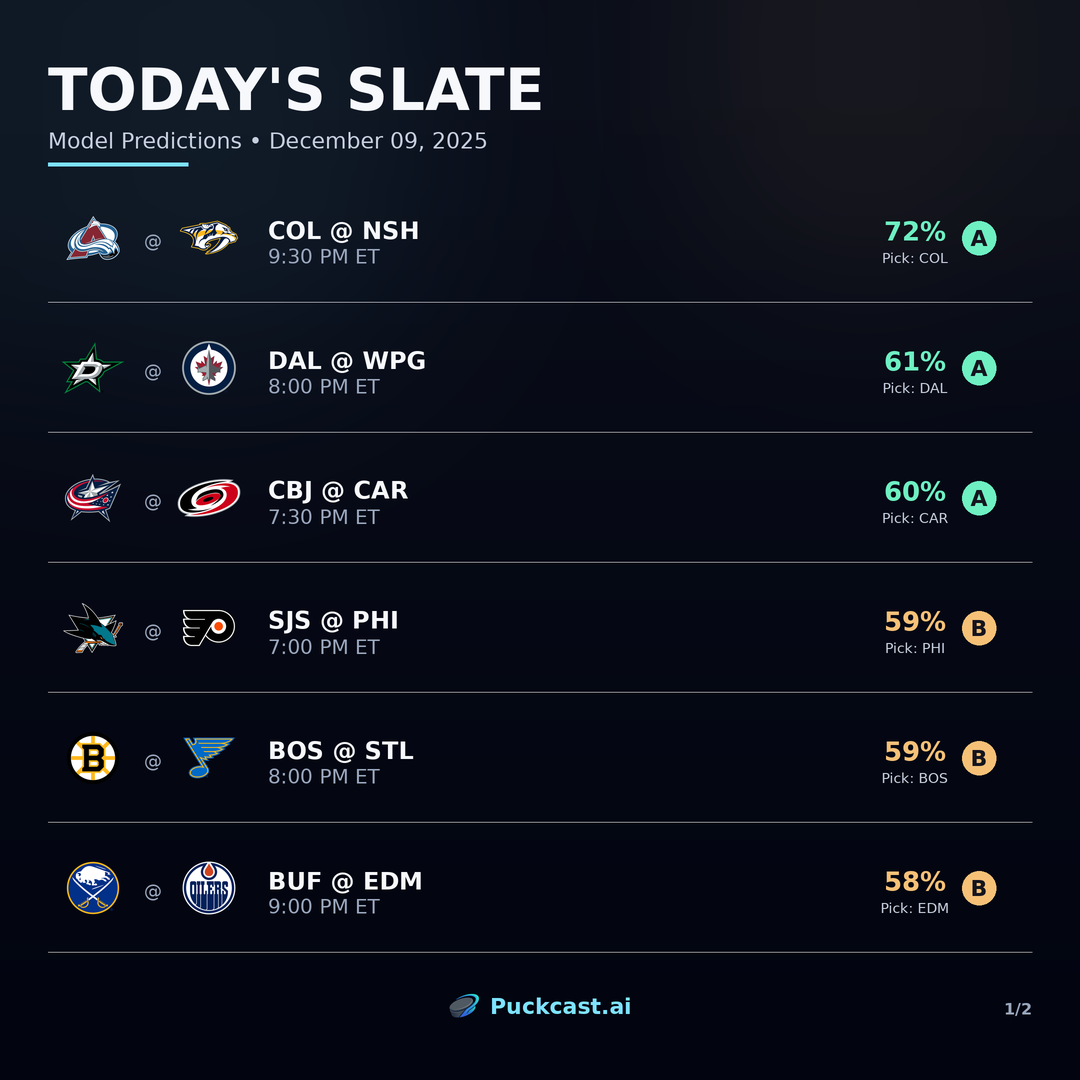
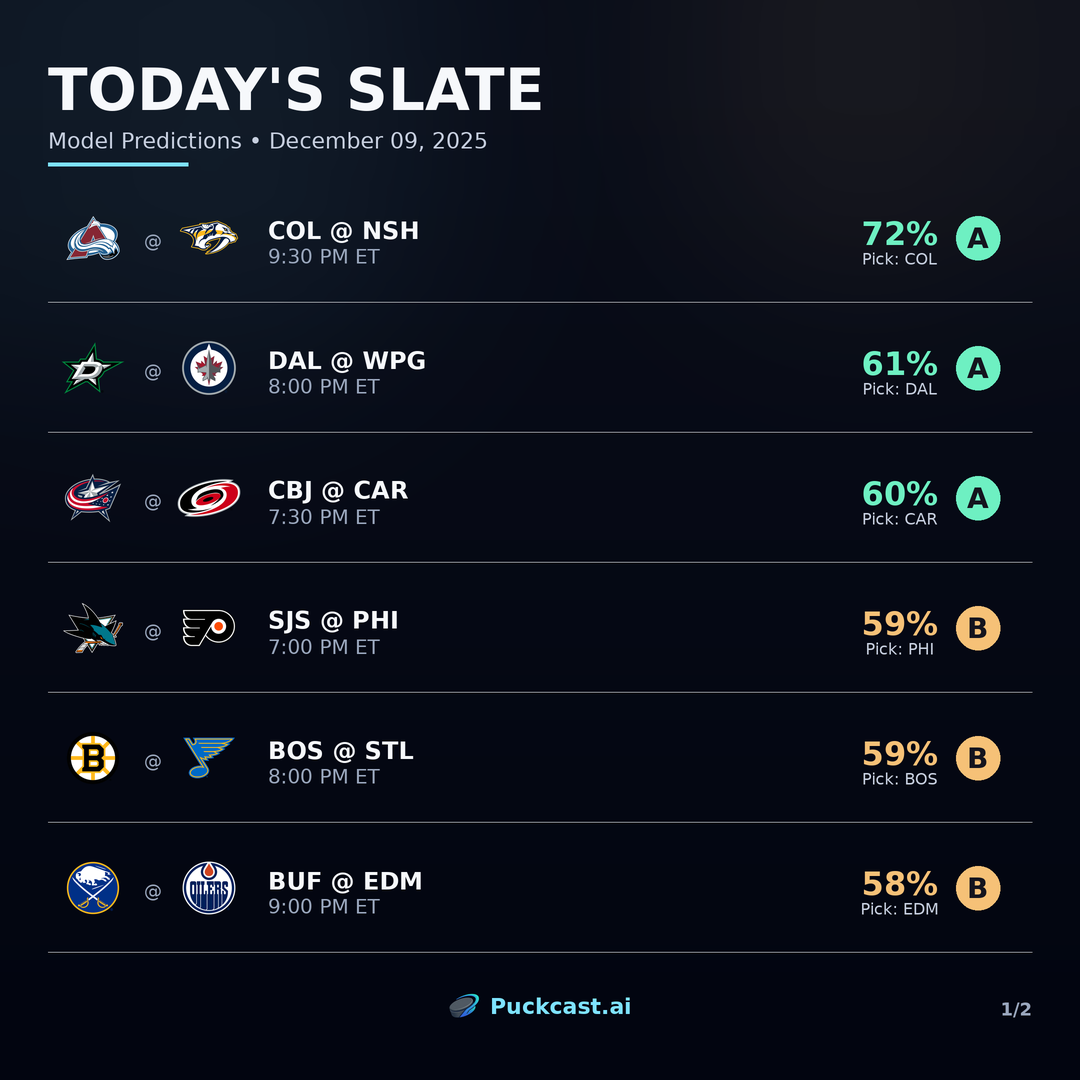
fix: balance Today's Slate pick info with team column sizing
- Increase probability font S(26)->S(32) for visual weight
- Increase pick label font S(14)->S(16) proportionally
- Increase badge size S(34)->S(44) and grade font S(22)->S(28)
- Fix slide counter alignment to match exact footer position

diff --git a/graphics/templates/todays_slate.py b/graphics/templates/todays_slate.py
@@ -111,47 +111,47 @@ def draw_game_row(
     draw.text((info_x, text_y), matchup_text, fill=hex_to_rgb(PuckcastColors.TEXT_PRIMARY), font=matchup_font)
     draw.text((info_x, text_y + matchup_h + S(6)), start_time, fill=hex_to_rgb(PuckcastColors.TEXT_TERTIARY), font=time_font)
 
-    # Right side: Pick info - pulled inward for balance
+    # Right side: Pick info - sized to balance with left team column
     grade_color = get_confidence_color_rgb(confidence)
 
-    # Grade badge position (anchor point)
-    badge_size = S(34)
-    badge_x = img.width - margin - badge_size - S(36)  # Pulled inward more for connection
+    # Grade badge position (anchor point) - larger for visual balance
+    badge_size = S(44)
+    badge_x = img.width - margin - badge_size - S(32)
     badge_y = row_center_y - badge_size // 2
 
-    # Probability text - balanced size
-    prob_font = get_font(S(26), bold=True)
+    # Probability text - increased to match left column visual weight
+    prob_font = get_font(S(32), bold=True)
     prob_text = f"{pick_prob * 100:.0f}%"
     prob_bbox = draw.textbbox((0, 0), prob_text, font=prob_font)
     prob_w = prob_bbox[2] - prob_bbox[0]
     prob_h = prob_bbox[3] - prob_bbox[1]
 
-    # Pick label
-    pick_font = get_font(S(14), bold=False)
+    # Pick label - proportionally larger
+    pick_font = get_font(S(16), bold=False)
     pick_label = f"Pick: {pick_abbrev}"
     pick_bbox = draw.textbbox((0, 0), pick_label, font=pick_font)
     pick_w = pick_bbox[2] - pick_bbox[0]
     pick_h = pick_bbox[3] - pick_bbox[1]
 
     # Position pick section to left of badge with spacing
-    pick_section_x = badge_x - prob_w - S(16)  # Extra spacing between prob and badge
+    pick_section_x = badge_x - prob_w - S(18)
 
-    # Total height of pick section with better breathing room
-    spacing = S(14)  # Increased vertical spacing for less compression
+    # Total height of pick section
+    spacing = S(10)
     total_pick_h = prob_h + spacing + pick_h
     pick_start_y = row_center_y - total_pick_h // 2
 
     # Draw probability
     draw.text((pick_section_x, pick_start_y), prob_text, fill=grade_color, font=prob_font)
 
-    # Draw pick label below with spacing
+    # Draw pick label below centered under probability
     draw.text((pick_section_x + (prob_w - pick_w) // 2, pick_start_y + prob_h + spacing), pick_label, fill=hex_to_rgb(PuckcastColors.TEXT_SECONDARY), font=pick_font)
 
     # Grade badge
     draw.ellipse([badge_x, badge_y, badge_x + badge_size, badge_y + badge_size], fill=grade_color)
 
-    # Grade letter - sized to match probability text visually
-    grade_font = get_font(S(22), bold=True)
+    # Grade letter - sized to match probability/pick column height
+    grade_font = get_font(S(28), bold=True)
     grade_bbox = draw.textbbox((0, 0), confidence, font=grade_font)
     grade_w = grade_bbox[2] - grade_bbox[0]
     grade_h = grade_bbox[3] - grade_bbox[1]
@@ -195,14 +195,16 @@ def generate_slate_image(games: List[Dict], date_str: str, page: int = 1, total_
 
     # Slide counter for multi-page slates (bottom right, aligned with footer)
     if total_pages > 1:
-        counter_font = get_font(S(16), bold=True)
+        counter_font = get_font(S(18), bold=True)
         counter_text = f"{page}/{total_pages}"
         counter_bbox = draw.textbbox((0, 0), counter_text, font=counter_font)
         counter_w = counter_bbox[2] - counter_bbox[0]
         counter_h = counter_bbox[3] - counter_bbox[1]
         counter_x = img.width - margin - counter_w
-        # Align vertically with footer (footer_margin=58, logo_height~32)
-        counter_y = img.height - S(58) - S(16) - counter_h // 2
+        # Match exact footer positioning: y = img.height - footer_margin(58) - logo_height(32)
+        footer_y = img.height - S(58) - S(32)
+        footer_element_h = S(32)  # Logo height in footer
+        counter_y = footer_y + (footer_element_h - counter_h) // 2
         draw.text((counter_x, counter_y), counter_text, fill=hex_to_rgb(PuckcastColors.TEXT_TERTIARY), font=counter_font)
 
     draw_footer(img)
